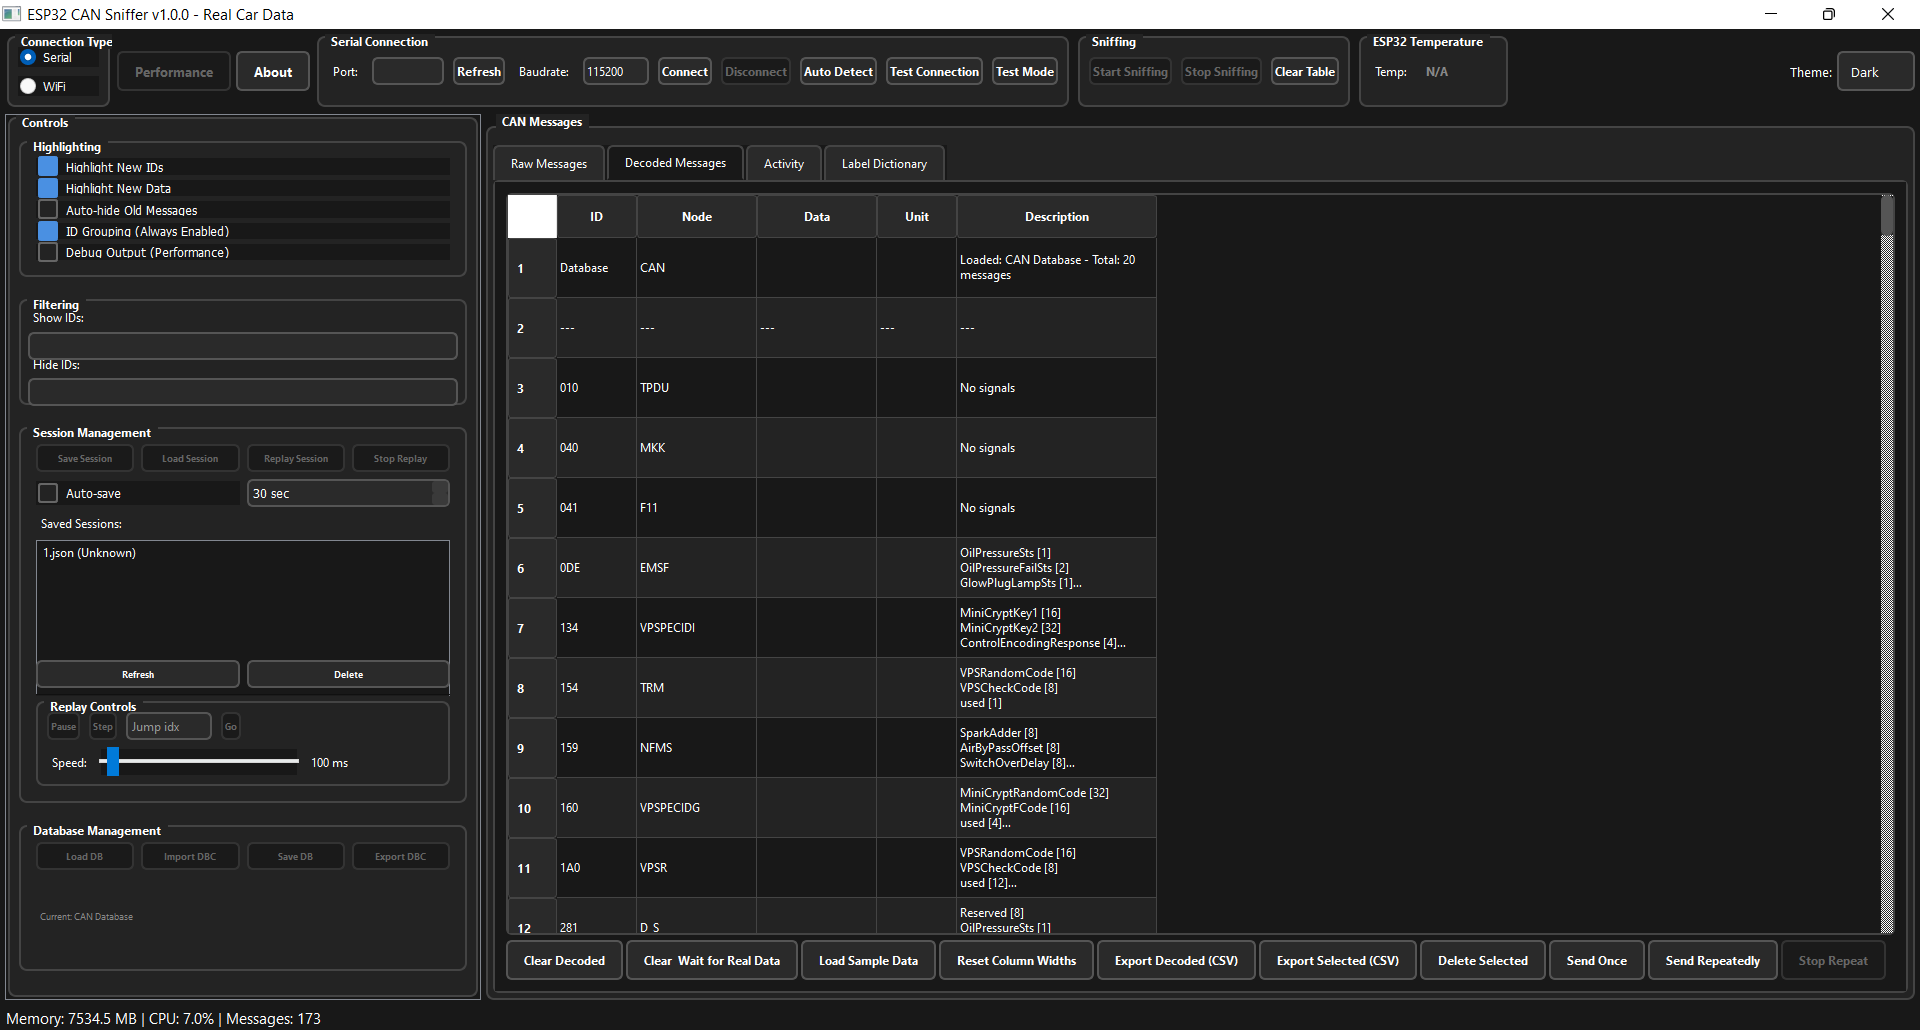
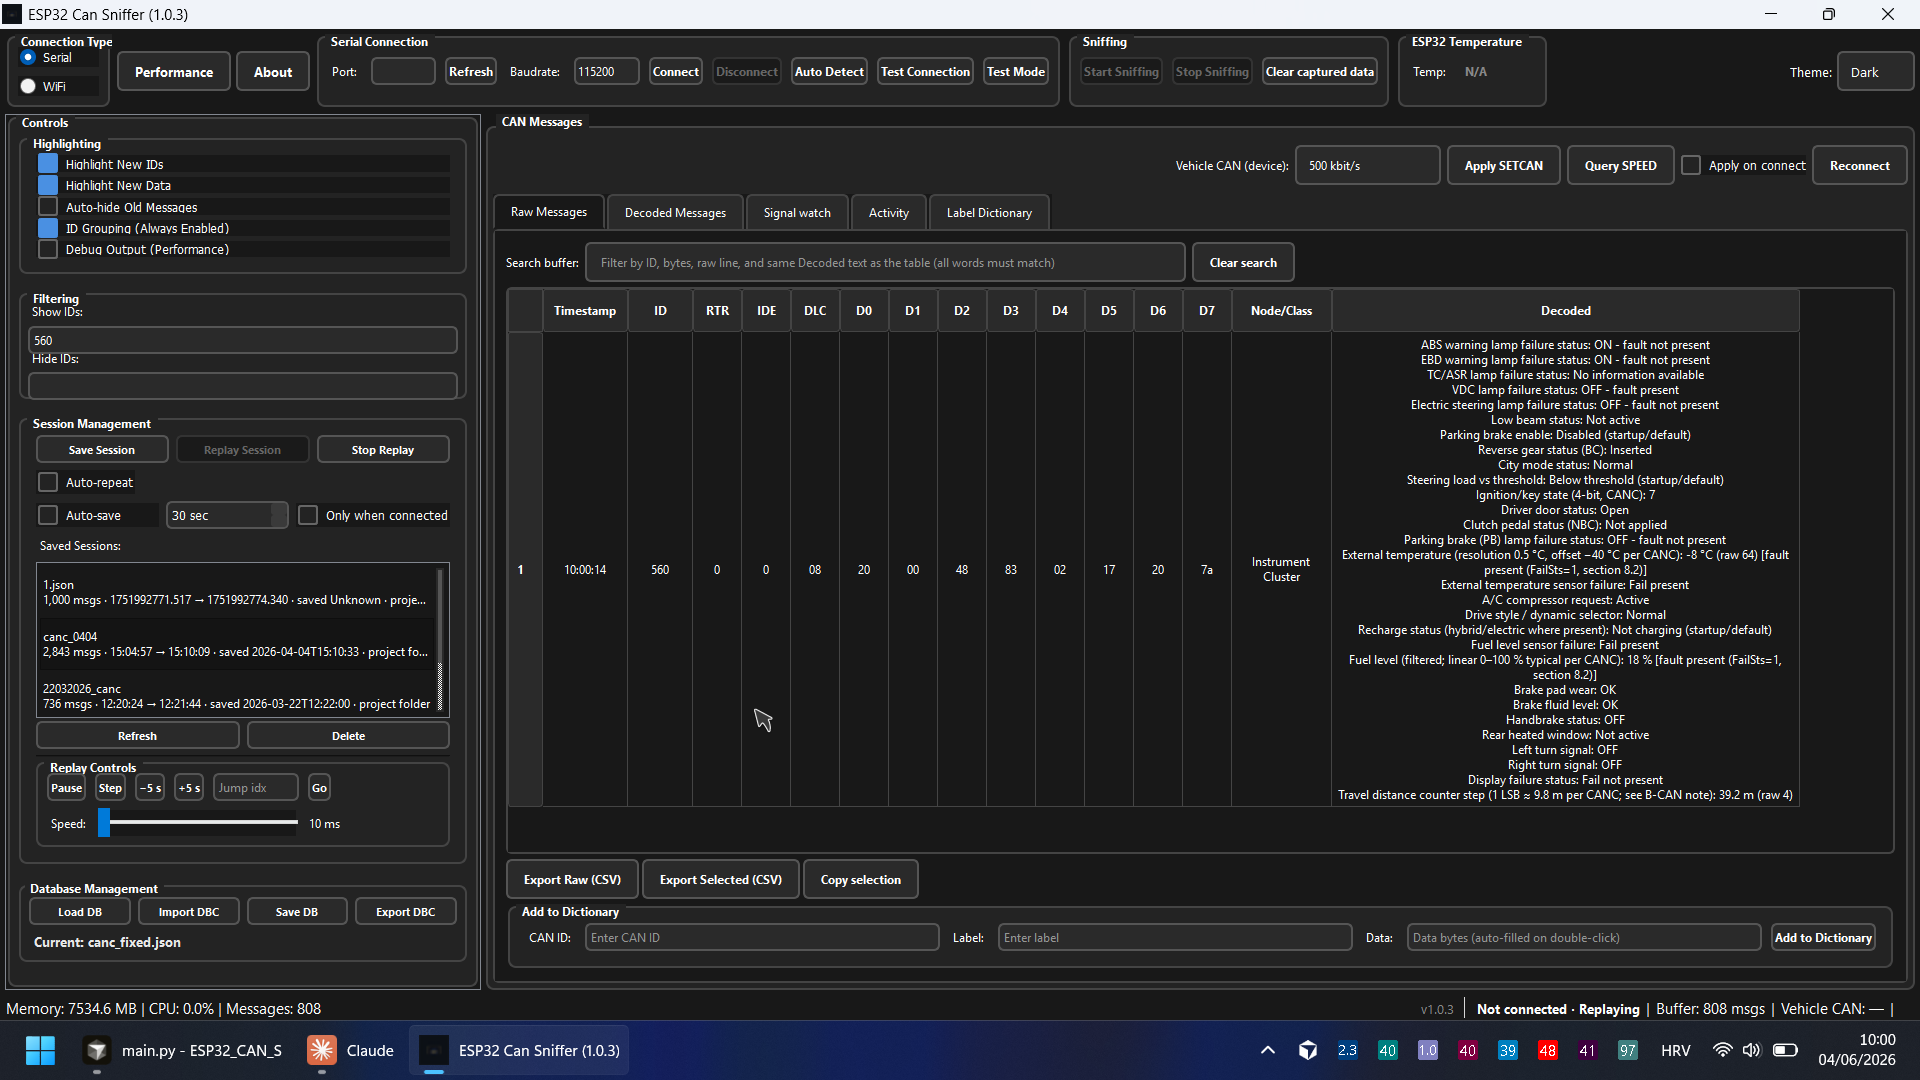
Update hero copy and decoder screenshot with new messaging.

diff --git a/index.html b/index.html
@@ -95,11 +95,10 @@
             </nav>
             <div class="hero-content">
                 <div>
-                    <p class="eyebrow">Professional CAN Toolkit</p>
-                    <h1>ESP32 CAN Sniffer for Windows: live decode &amp; session replay</h1>
+                    <p class="eyebrow">ESP32 CAN Sniffer for Windows</p>
+                    <h1>See exactly what your car is saying.</h1>
                     <p class="lead">
-                        Monitor and decode vehicle CAN traffic in real time with a Windows desktop suite built for ESP32 and MCP2515.
-                        DBC import/export, save/replay, and optional FIAT Stilo add-on (Stilo-tested dictionary data)—built for workshop technicians and developers worldwide.
+                        Real-time decoded diagnostic messages. Windows desktop suite for ESP32 and MCP2515 with DBC import/export, save/replay, and optional FIAT Stilo add-on (Stilo-tested dictionary data)—built for workshop technicians and developers worldwide.
                     </p>
                     <div class="hero-cta hero-cta--isolated">
                         <a id="download" class="btn primary" href="https://github.com/esp32support/esp32-can-sniffer/releases/download/v1.0.3/ESP32_CAN_Sniffer_Setup.exe" target="_blank" rel="noopener noreferrer"><span class="label-desktop">Download Demo Installer</span><span class="label-mobile">Download DEMO</span></a>
@@ -329,8 +328,8 @@
                     <figcaption>Real-time CAN monitoring with live filters and stream stats.</figcaption>
                 </figure>
                 <figure>
-                    <img src="images/decoder.png" alt="Decoder workspace" width="1920" height="1030" loading="lazy" decoding="async" />
-                    <figcaption>Decoder workspace with the FIAT Stilo add-on (Fiat / Alfa / Lancia group data).</figcaption>
+                    <img src="images/decoder.png" alt="See exactly what your car is saying — decoded CAN messages" width="1920" height="1030" loading="lazy" decoding="async" />
+                    <figcaption>See exactly what your car is saying.</figcaption>
                 </figure>
                 <figure>
                     <img src="images/themes.png" alt="Dark and light theme preview" width="1920" height="1030" loading="lazy" decoding="async" />